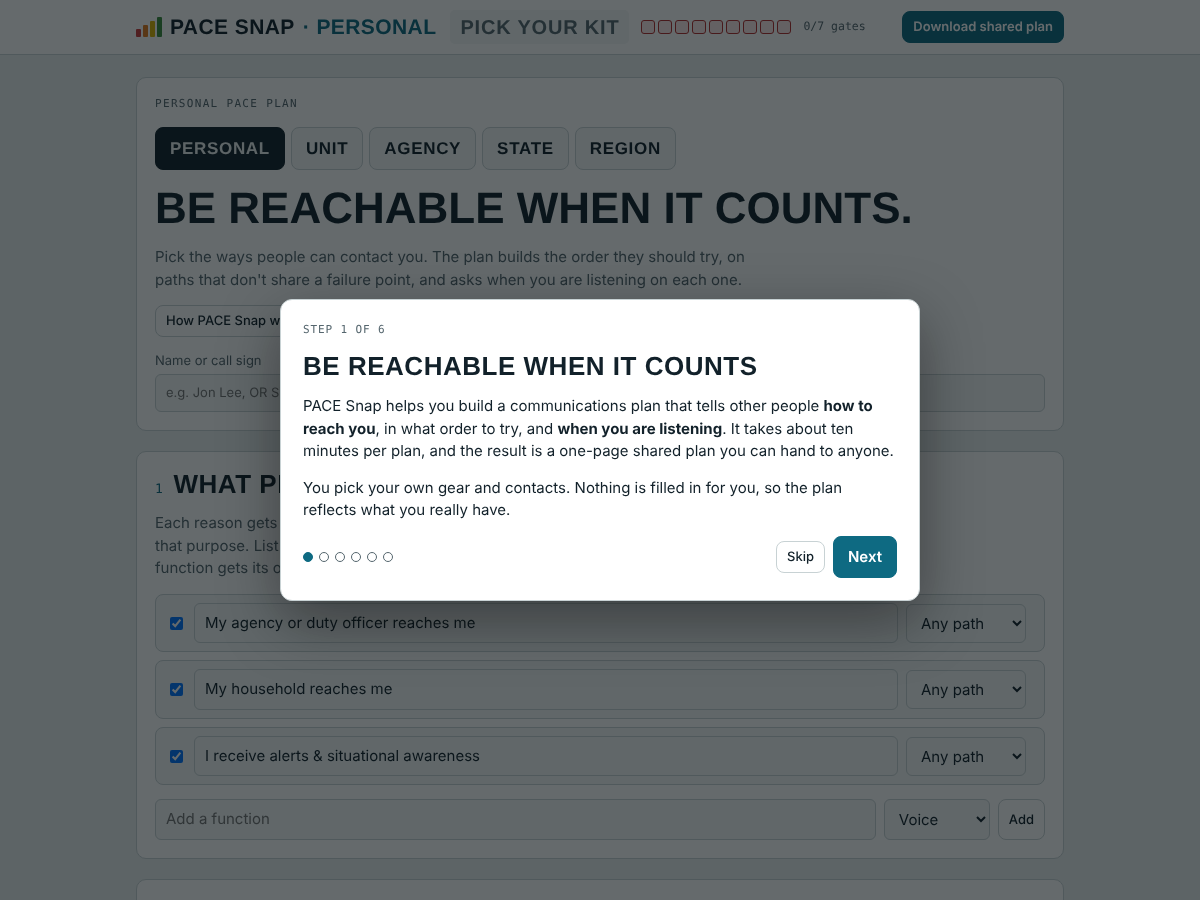
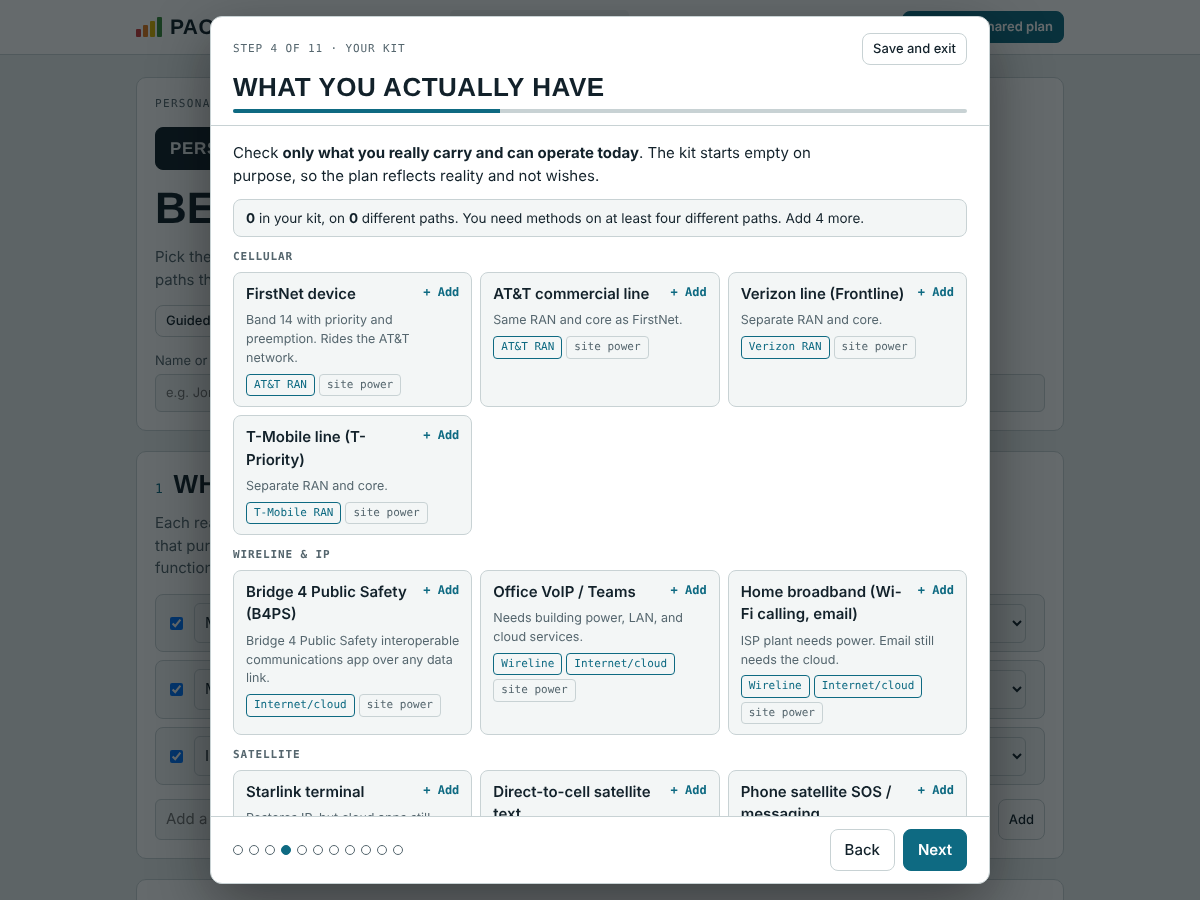
Add guided setup that builds a Personal plan; update README and screenshot
Claude-Session: https://claude.ai/code/session_01Mi91tKSZhi5q3o5ztUVfmX

diff --git a/index.html b/index.html
@@ -202,6 +202,24 @@ textarea{width:100%;min-height:150px;font-family:var(--f-mono);font-size:12px;ba
 .dots{display:flex;gap:6px}
 .dots button{width:10px;height:10px;border-radius:50%;border:1px solid var(--muted);background:transparent;padding:0;cursor:pointer}
 .dots button[aria-current="step"]{background:var(--accent);border-color:var(--accent)}
+.mcard.wz{width:min(780px,100%);max-height:100%;overflow:hidden;padding:0;gap:0}
+.wzh0{padding:16px 22px 12px;border-bottom:1px solid var(--line);display:flex;flex-direction:column;gap:8px}
+.wzp{height:4px;background:var(--line);border-radius:2px;overflow:hidden}.wzp i{display:block;height:100%;background:var(--accent)}
+.wzb{padding:16px 22px;overflow:auto;flex:1;min-height:0;display:flex;flex-direction:column;gap:12px}
+.wzf{padding:12px 22px;border-top:1px solid var(--line);display:flex;gap:10px;align-items:center;justify-content:space-between;flex-wrap:wrap}
+.wztip{border-left:3px solid var(--accent);background:var(--panel-2);padding:8px 12px;border-radius:4px;font-size:13.5px}
+.wzcard{border:1px solid var(--line);border-radius:8px;padding:10px;display:flex;flex-direction:column;gap:8px;background:var(--panel-2);min-width:0}
+.wzcard.sugg{border-style:dashed}
+.wzlist{display:flex;flex-direction:column;gap:6px}
+.wzchk{display:flex;gap:8px;align-items:center;padding:8px 10px;border:1px solid var(--line);border-radius:8px;background:var(--panel-2)}
+.wzmeter{padding:8px 12px;border-radius:8px;background:var(--panel-2);border:1px solid var(--line);font-size:13.5px}.wzmeter.ok{border-color:var(--accent)}
+.wzh{margin:0 0 6px;font-family:var(--f-mono);font-size:11px;letter-spacing:.08em;text-transform:uppercase;color:var(--muted)}
+.wz4{display:grid;grid-template-columns:repeat(auto-fit,minmax(170px,1fr));gap:8px;font-size:13px}.wz4>div{padding:8px;border:1px solid var(--line);border-radius:8px;background:var(--panel-2)}.wz4 b{display:block}
+.wzrate{display:grid;grid-template-columns:minmax(0,1fr) repeat(4,64px);gap:6px;align-items:center;font-size:13px}.wzrate.hd{font-family:var(--f-mono);font-size:10.5px;color:var(--muted);text-transform:uppercase}.wzrate.hd span{text-align:center}
+.wzrate .nm{overflow-wrap:anywhere}
+.wzlad{display:flex;flex-direction:column;gap:8px}
+@media(max-width:520px){.wzrate{grid-template-columns:minmax(0,1fr) repeat(4,50px);gap:4px}.wzrate.hd{font-size:9px}}
+.wzrate select{padding:6px 2px;text-align:center;text-align-last:center}
 .lad{display:grid;gap:6px}
 .lad div{display:flex;gap:10px;align-items:center;padding:8px 10px;border:1px solid var(--line);border-radius:8px;background:var(--panel-2)}
 .lad .lvl{flex:none}
@@ -227,7 +245,7 @@ textarea{width:100%;min-height:150px;font-family:var(--f-mono);font-size:12px;ba
 </div></main>
 <div class="toast" id="toast" role="status"></div>
 <input type="file" id="loadfile" accept=".json,application/json" hidden>
-<div class="modal" id="onb" role="dialog" aria-modal="true" aria-labelledby="onbT" hidden><div class="mcard" id="onbC" tabindex="-1"></div></div>
+<div class="modal" id="onb" role="dialog" aria-modal="true" aria-labelledby="onbT" hidden><div class="mcard wz" id="onbC" tabindex="-1"></div></div>
 
 <script>
 /* ================= data ================= */
@@ -575,7 +593,7 @@ function renderHead(){const t=T();$('tierName').textContent='· '+t.label;
  $('head').innerHTML=`<section class="card"><span class="eyebrow">${t.label} PACE plan</span>
  <div class="tiers" role="tablist" aria-label="Plan tier">${Object.entries(TIERS).map(([k,v])=>`<button type="button" role="tab" data-act="tier" data-id="${k}" aria-selected="${k===TIER}">${v.label}</button>`).join('')}</div>
  <h1>${t.h1}</h1><p class="muted">${t.intro}</p>
- <div class="row" style="gap:8px"><button type="button" class="btn sm" data-act="help">How PACE Snap works</button><button type="button" class="btn sm" data-act="saveFile">Save progress</button><button type="button" class="btn sm" data-act="loadFile">Load progress</button><button type="button" class="btn sm" data-act="allPdf">Download all plans (PDF)</button><button type="button" class="btn sm" data-act="sample">${SAMPLEARM?'Replace my plan? Click again':'Load sample plan'}</button></div>
+ <div class="row" style="gap:8px"><button type="button" class="btn sm" data-act="help">Guided setup</button><button type="button" class="btn sm" data-act="saveFile">Save progress</button><button type="button" class="btn sm" data-act="loadFile">Load progress</button><button type="button" class="btn sm" data-act="allPdf">Download all plans (PDF)</button><button type="button" class="btn sm" data-act="sample">${SAMPLEARM?'Replace my plan? Click again':'Load sample plan'}</button></div>
  ${S.sample?`<div class="flag warn"><b>This is a sample plan</b> with made-up contacts, so you can see what a finished plan looks like. <div class="row" style="gap:8px;margin-top:6px"><button type="button" class="btn sm pri" data-act="clearSample">Clear sample and start my own</button></div></div>`:''}
  <div class="grid2">
   <label class="fld">${t.whoL}<input type="text" id="who" data-bind="who" placeholder="${esc(t.whoP)}" value="${esc(S.who)}"></label>
@@ -854,19 +872,125 @@ async function exportAll(btn){const label=btn&&btn.textContent;if(btn){btn.disab
 /* ================= events ================= */
 /* ================= onboarding, save/load, csv ================= */
 let CSVC=false,ONB=0,SAMPLEARM=false,RESETARM=false;
-const ONB_STEPS=[
- {t:'Be reachable when it counts',b:()=>`<p>PACE Snap helps you build a communications plan that tells other people <b>how to reach you</b>, in what order to try, and <b>when you are listening</b>. It takes about ten minutes per plan, and the result is a one-page shared plan you can hand to anyone.</p><p>You pick your own gear and contacts. Nothing is filled in for you, so the plan reflects what you really have.</p>`},
- {t:'The PACE idea',b:()=>`<p>PACE is a military-derived method. Instead of improvising when something fails, you decide in advance what comes next.</p><div class="lad">${LEVELS.map(l=>`<div><span class="lvl ${l.c}">${l.k}</span><span><b>${l.name}</b>: ${({P:'your everyday method (cell, VoIP, email)',A:'a common backup on a different path (second carrier, SMS)',C:'a strategic fallback (satellite, a different location)',E:'the last resort (HF radio, SHARES, mesh, a runner)'})[l.k]}</span></div>`).join('')}</div>`},
- {t:'The right mindset',b:()=>`<ul><li><b>Plan for losing what you depend on</b>, not for one kind of incident. A good plan is all-hazards.</li><li><b>Each rung needs its own failure path.</b> Two methods on the same tower, power feed, or internet link are one method.</li><li><b>Reachable means monitored.</b> A number nobody is watching is not a contact. Say when you are listening: always, on a schedule, or once the methods above stop working.</li><li><b>Untested is unproven.</b> A plan is ready for testing, not ready to trust, until you have made a real two-way contact on each rung.</li></ul>`},
- {t:'Four checks for every method',b:()=>`<p>Rate each asset honestly on:</p><ul><li><b>Power</b>: how long it runs on battery or generator, and fuel availability.</li><li><b>Availability</b>: is it monitored 24/7 and recently tested?</li><li><b>Compatibility</b>: can the other side actually talk to it (for example ALE for HF)?</li><li><b>Ease of use</b>: can someone use it under stress, in the dark, in bad weather?</li></ul><p class="muted">Readiness also uses the CISA criteria: feasible, acceptable, suitable, distinguishable, complete.</p>`},
- {t:'How PACE Snap works',b:()=>`<ol><li><b>Reasons to reach you.</b> Keep or add the functions people need you for.</li><li><b>Your kit.</b> Check only what you really have. It starts empty.</li><li><b>The plan builds itself.</b> You get a P-A-C-E ladder for each reason, with an explanation for each rung. Change any rung you like.</li><li><b>Contacts and listening.</b> Add contact details and say when you are monitoring each method.</li><li><b>Check the drills and gates.</b> They show where an outage would break your plan.</li><li><b>Share.</b> Download the shared plan PDF, or a CSV to compile plans.</li></ol><p class="muted">Extra carriers and spare methods go under <b>Backup methods</b> so the ladders stay clean.</p>`},
- {t:'Your data and where to start',b:()=>`<p>Want to see a finished plan first? Use <b>Load sample plan</b>. Everything else stays in this browser. Use <b>Save progress</b> to download a file and <b>Load progress</b> to pick up later or on another device. Exports contain contact details, so share them with care.</p><p><b>Which plan are you building?</b></p><div class="pickt">${Object.entries(TIERS).map(([k,v])=>`<button type="button" class="btn ${k===TIER?'pri':''}" data-act="onbTier" data-id="${k}">${v.label}</button>`).join('')}</div>`}];
-function onbRender(){const st=ONB_STEPS[ONB],last=ONB===ONB_STEPS.length-1;
- $('onbC').innerHTML=`<span class="mstep">Step ${ONB+1} of ${ONB_STEPS.length}</span><h2 id="onbT">${st.t}</h2>${st.b()}
- <div class="mfoot"><div class="dots" role="group" aria-label="Steps">${ONB_STEPS.map((_,i)=>`<button type="button" data-act="onbGo" data-i="${i}" aria-label="Step ${i+1}" ${i===ONB?'aria-current="step"':''}></button>`).join('')}</div>
- <div class="row" style="gap:8px">${last?'':'<button type="button" class="btn sm" data-act="onbClose">Skip</button>'}${ONB>0?'<button type="button" class="btn" data-act="onbBack">Back</button>':''}<button type="button" class="btn pri" data-act="${last?'onbClose':'onbNext'}">${last?'Start building':'Next'}</button></div></div>`}
-function onbOpen(){ONB=0;onbRender();$('onb').hidden=false;$('onbC').focus()}
-function onbClose(){$('onb').hidden=true;try{localStorage.setItem('pace-snap-onb','1')}catch(e){}}
+/* ---- guided setup: learn the app by building your Personal PACE plan ---- */
+const WZ=[
+ {n:'You',t:'Let\'s build your Personal PACE plan'},
+ {n:'The idea',t:'The PACE idea'},
+ {n:'Reasons',t:'Why people need to reach you'},
+ {n:'Your kit',t:'What you actually have'},
+ {n:'Four checks',t:'Rate your gear honestly'},
+ {n:'Your ladder',t:'Your PACE ladder'},
+ {n:'Contacts',t:'How others reach you'},
+ {n:'Listening',t:'When you are listening'},
+ {n:'Backups',t:'Backup methods'},
+ {n:'Check',t:'Check your plan'},
+ {n:'Share',t:'Share it and test it'}];
+const wzTip=h=>`<div class="wztip"><b>Mindset.</b> ${h}</div>`;
+const wzUsed=()=>{const m=new Map();activeFns().forEach(f=>view(f.id).rows.forEach(r=>{if(!r.A)return;if(!m.has(r.id))m.set(r.id,{A:r.A,fns:[]});m.get(r.id).fns.push(f)}));return[...m.values()]};
+const wzFirst=(o,u)=>{for(const f of u.fns){const v=o==='c'?contactOf(f.id,u.A.id):((S.tested[f.id]||{})[u.A.id]||'');if(v)return v}return ''};
+function contactHint(A){const p=A.path;
+ if(p.some(x=>['att','vz','tmo','wire'].includes(x)))return 'Phone number, e.g. 503-555-0123';
+ if(p.some(x=>['iridium','msat','starlink','geo'].includes(x)))return 'Satellite number, device name or account';
+ if(p.includes('hf'))return 'Call sign and frequency or ALE address';
+ if(p.includes('mesh'))return 'Node name and channel';
+ if(p.some(x=>['lmr','slmr','issi','simplex','rptr','prptr','manet'].includes(x)))return 'Talkgroup, channel or repeater';
+ if(p.includes('human'))return 'Where to find you, or the rally point';
+ if(p.includes('net')||p.includes('fiber')||p.includes('isp'))return 'Email address or app handle';
+ return 'How a caller reaches you on this'}
+function wzMonBase(f,id){const b={...monEff(f,id)};delete b.confirmed;return b}
+function wzMon(id,patch){activeFns().forEach(f=>{const o=monSet(f.id,id);Object.assign(o,wzMonBase(f.id,id),patch)});save()}
+function wzSync(){render();wzRender()}
+const wzStore=()=>{try{localStorage.setItem('pace-snap-onb-step',String(ONB))}catch(e){}};
+function wzBody(){const T_=T();
+ switch(ONB){
+ case 0:return `<p>In about ten minutes you will learn how PACE Snap works by building <b>your own plan</b>. Each step teaches one idea and asks for one thing. Everything saves as you go, so you can leave and pick up later with <b>Guided setup</b>.</p>
+  <div class="grid2"><label class="fld">Name or call sign<input type="text" data-w="who" value="${esc(S.who)}" placeholder="${esc(T_.whoP)}"></label><label class="fld">Home base / area<input type="text" data-w="base" value="${esc(S.base)}" placeholder="${esc(T_.baseP)}"></label></div>
+  <p class="muted">This appears at the top of the plan you share.</p>
+  <div class="row" style="gap:8px"><button type="button" class="btn sm" data-act="wzSample">Just show me a finished sample plan</button></div>`;
+ case 1:return `<p>PACE is a military-derived method. Instead of improvising when something fails, you decide in advance what comes next.</p>
+  <div class="lad">${LEVELS.map(l=>`<div><span class="lvl ${l.c}">${l.k}</span><span><b>${l.name}</b>: ${({P:'your everyday method (cell, VoIP, email)',A:'a common backup on a different path (a second carrier, SMS)',C:'a strategic fallback (satellite, a different location)',E:'the last resort (HF radio, SHARES, mesh, a runner)'})[l.k]}</span></div>`).join('')}</div>
+  <ul><li><b>Plan for losing what you depend on</b>, not for one kind of incident. A good plan is all-hazards.</li><li><b>Each rung needs its own failure path.</b> Two methods on the same tower, power feed or internet link are really one method.</li><li><b>Reachable means monitored.</b> A number nobody is watching is not a contact.</li><li><b>Untested is unproven.</b> At the end you will have a plan that is ready for testing, not yet trusted.</li></ul>
+  ${wzTip('This tool is about <b>how others reach you</b>. You will list the reasons people need you, the gear you have, and when you are listening on each method.')}`;
+ case 2:{const sug=['My supervisor reaches me','My team reaches me in the field','My neighbors or community reach me'].filter(n=>!S.fns.some(f=>f.name===n));
+  return `<p>Everyone reaches you for different reasons. <b>Each reason gets its own ladder</b>, because the best method for a duty officer is not the best one for your family. Keep what applies, and add your own.</p>
+  <div class="wzlist">${S.fns.map((f,i)=>`<label class="wzchk"><input type="checkbox" data-act="wzFn" data-idx="${i}" ${f.on?'checked':''}><span>${esc(f.name)}</span></label>`).join('')}</div>
+  ${sug.length?`<div class="row" style="gap:6px"><span class="muted">Add:</span>${sug.map(n=>`<button type="button" class="ev" data-act="wzFnAdd" data-n="${esc(n)}">+ ${esc(n)}</button>`).join('')}</div>`:''}
+  <div class="row" style="gap:8px;align-items:flex-end"><label class="fld" style="flex:1 1 240px">Another reason<input type="text" id="w-newfn" placeholder="e.g. My mutual-aid partners reach me"></label><label class="fld">Type<select id="w-newtype">${Object.entries(TYPES_S).map(([k,v])=>`<option value="${k}">${v}</option>`).join('')}</select></label><button type="button" class="btn sm" data-act="wzFnAdd">Add</button></div>
+  ${wzTip('Think of the three people most likely to need you on your worst day. Their reasons are your functions.')}`}
+ case 3:{const groups=[...new Set(allAssets().map(a=>a.g))],inv=invList(),paths=new Set(inv.flatMap(a=>a.path)).size;
+  return `<p>Check <b>only what you really carry and can operate today</b>. The kit starts empty on purpose, so the plan reflects reality and not wishes.</p>
+  <div class="wzmeter ${paths>=4?'ok':''}"><b>${inv.length}</b> in your kit, on <b>${paths}</b> different path${paths===1?'':'s'}. ${paths>=4?'That is enough for a full four-rung ladder.':`You need methods on at least four different paths. Add ${4-paths} more.`}</div>
+  ${groups.map(g=>`<div><h4 class="wzh">${esc(g)}</h4><div class="assets">${allAssets().filter(a=>a.g===g).map(a=>`<button type="button" class="asset" data-act="wzInv" data-id="${a.id}" aria-pressed="${!!S.inv[a.id]}"><span class="nm">${esc(a.name)}<span class="ck">${S.inv[a.id]?'✓ In kit':'+ Add'}</span></span><span class="nt">${esc(a.note)}</span><span class="tags">${pathChips(a)}</span></button>`).join('')}</div></div>`).join('')}
+  <details class="addit"><summary>Something not listed? Add your own</summary><div class="grid2"><label class="fld">Item name<input type="text" id="w-cn" placeholder="e.g. Spare Verizon hotspot"></label><label class="fld">Module<select id="w-cg">${groups.map(g=>`<option>${esc(g)}</option>`).join('')}</select></label><label class="fld">Path it rides<select id="w-cp">${Object.entries(PATHS).map(([k,v])=>`<option value="${k}">${v}</option>`).join('')}</select></label><label class="fld">Mode<input type="text" id="w-cm" placeholder="Voice, text, data"></label><label class="fld">It needs<select id="w-cc"><option value="">Nothing special</option>${Object.entries(CONDS).map(([k,v])=>`<option value="${k}">${v}</option>`).join('')}</select></label></div><div><button type="button" class="btn sm" data-act="wzAddAsset">Add to kit</button></div></details>
+  ${wzTip('Count the <b>paths</b>, not the devices. Three phones on one carrier are still one path.')}`}
+ case 4:{const inv=invList();
+  return `<p>Every method is scored on four checks, 1 (weak) to 3 (strong). The plan builder uses your scores, so be honest. Your worst day is the test.</p>
+  <div class="wz4"><div><b>Power</b> battery or generator, and fuel</div><div><b>Availability</b> monitored 24/7 and recently tested</div><div><b>Compatibility</b> the other side can actually receive it (for example ALE for HF)</div><div><b>Ease</b> usable under stress, in the dark, in bad weather</div></div>
+  ${inv.length?`<div class="wzrate hd"><span></span>${['Power','Avail.','Compat.','Ease'].map(r=>`<span>${r}</span>`).join('')}</div>${inv.map(a=>{const r=effR(a);return `<div class="wzrate"><span class="nm">${esc(a.name)}</span>${r.map((v,k)=>`<select data-w="rate" data-id="${a.id}" data-k="${k}" aria-label="${esc(a.name)} ${RATE[k][0]}">${[1,2,3].map(n=>`<option value="${n}" ${v===n?'selected':''}>${n}</option>`).join('')}</select>`).join('')}</div>`}).join('')}`:'<div class="flag bad">Your kit is empty. Go back and add what you have.</div>'}
+  ${wzTip('A method rated 1 on Availability or Ease is a method that will not be there when you need it. The builder avoids those.')}`}
+ case 5:{const Fs=activeFns();if(!Fs.length)return '<div class="flag bad">No reasons are switched on. Go back to step 3.</div>';
+  const f=curTab(),v=view(f),fo=fnById(f),au=autoOf(f);
+  return `<p>Here is the ladder the builder made from your kit: <b>four methods on four different paths</b>, in the order callers should try them. Change any rung if you know better.</p>
+  <label class="fld">Reason<select data-w="tab">${Fs.map(x=>`<option value="${x.id}" ${x.id===f?'selected':''}>${esc(x.name)}</option>`).join('')}</select></label>
+  <div class="wzlad">${v.rows.map(r=>{const why=r.A?rationale(v.ids,r.i,f):null;return `<div class="wzcard"><div class="row" style="gap:10px"><span class="lvl ${r.l.c}">${r.l.k}</span><b>${r.l.name}</b><select data-w="swap" data-i="${r.i}" style="flex:1;min-width:0" aria-label="${r.l.name} method"><option value="">(empty)</option>${invList().map(a=>`<option value="${a.id}" ${a.id===r.id?'selected':''}>${esc(a.name)}</option>`).join('')}</select></div>
+   ${r.A?`<div class="row" style="gap:4px">${pathChips(r.A)}</div><div class="muted" style="font-size:12.5px">${esc(why[1])} ${esc(why[2])}</div>`:'<div class="muted">Nothing here yet. Add a method on a new path to fill it.</div>'}</div>`}).join('')}</div>
+  ${v.cl.length?`<div class="flag bad">Shared failure point: ${v.cl.map(c=>`${LEVELS[c.i].name} and ${LEVELS[c.j].name} both depend on ${c.sh.join(', ')}`).join('; ')}. One failure takes out both.</div>`:filled(v.ids)===4?'<div class="flag good">Four rungs, four separate paths.</div>':`<div class="flag bad">${gapAdvice(v.ids,fo.type||'any',f)||'Fill every rung.'}</div>`}
+  <div class="row" style="gap:8px">${S.manual[f]?'<button type="button" class="btn sm" data-act="wzAuto">Rebuild this ladder automatically</button>':'<span class="muted">Auto-built from your kit</span>'}</div>
+  ${wzTip('The ladder is only as good as its weakest shared dependency. If two rungs fail together, they are one rung.')}`}
+ case 6:{const U=wzUsed();if(!U.length)return '<div class="flag bad">Your ladders are empty. Go back to build them.</div>';
+  return `<p>Now give people what they will actually use to reach you on each method. You enter each one once, and it applies to every reason that uses it.</p>
+  ${U.map(u=>`<div class="wzcard"><div class="row" style="gap:8px"><b>${esc(u.A.name)}</b>${pathChips(u.A)}</div><label class="fld">How others reach you<input type="text" data-w="contact" data-id="${u.A.id}" value="${esc(wzFirst('c',u))}" placeholder="${esc(contactHint(u.A))}"></label><div class="muted" style="font-size:12.5px">Used for: ${u.fns.map(f=>esc(f.name)).join('; ')}</div></div>`).join('')}
+  ${wzTip('Write it the way a caller would dial it. A contact that needs explaining will fail under stress.')}`}
+ case 7:{const U=wzUsed();if(!U.length)return '<div class="flag bad">Your ladders are empty. Go back to build them.</div>';
+  const un=U.filter(u=>!monEff(u.fns[0].id,u.A.id).confirmed).length;
+  return `<p>A contact only helps if <b>someone is listening</b>. For each method say when you monitor it. Anything not always on needs a start condition that callers can understand.</p>
+  ${un?`<div class="row" style="gap:8px"><button type="button" class="btn sm pri" data-act="wzMonAll">Accept all ${un} suggestion${un===1?'':'s'}</button><span class="muted">Suggested settings are marked. Change any you disagree with.</span></div>`:'<div class="flag good">All monitoring settings confirmed.</div>'}
+  ${U.map(u=>{const f0=u.fns[0].id,m=monEff(f0,u.A.id);return `<div class="wzcard${m.confirmed?'':' sugg'}"><div class="row" style="gap:8px"><b>${esc(u.A.name)}</b>${m.confirmed?'':'<span class="chip">Suggested</span>'}</div>
+   <div class="grid2"><label class="fld">Monitoring<select data-w="monm" data-id="${u.A.id}">${Object.entries(MONLAB).map(([k,v])=>`<option value="${k}" ${m.m===k?'selected':''}>${v}</option>`).join('')}</select></label>
+   ${m.m==='trig'?`<label class="fld">Ready within<input type="text" data-w="rd" data-id="${u.A.id}" value="${esc(m.rd||'')}" placeholder="e.g. 15 minutes"></label>`:''}${m.m==='sched'?`<label class="fld">Schedule<input type="text" data-w="sched" data-id="${u.A.id}" value="${esc(m.sched||'')}" placeholder="e.g. Net 0800 and 1600 daily"></label>`:''}
+   <label class="fld">Last tested (optional)<input type="text" data-w="tested" data-id="${u.A.id}" value="${esc(wzFirst('t',u))}" placeholder="YYYY-MM-DD"></label></div>
+   ${m.m==='trig'?`<div class="evs">${TRIG_EVENTS.map(e=>`<button type="button" class="ev" data-act="wzTrig" data-id="${u.A.id}" data-e="${e.id}" aria-pressed="${(m.t||[]).includes(e.id)}">${e.name}</button>`).join('')}</div>`:''}</div>`}).join('')}
+  ${wzTip('Triggers are conditions, not incidents. "Callers cannot reach the rungs above" works for every hazard.')}`}
+ case 8:{const onL=new Set(wzUsed().map(u=>u.A.id)),used=new Set(S.alts.map(x=>x.id)),pool=invList().filter(a=>!used.has(a.id));
+  return `<p>Anything else that reaches you goes here: a second or third carrier, a spare radio, another email. Backups stay <b>off the ladders</b> so the plan stays clean, and appear as one short list. This step is optional.</p>
+  ${S.alts.map((x,i)=>asset(x.id)&&S.inv[x.id]?`<div class="wzcard"><b>${esc(asset(x.id).name)}</b><div class="grid2"><label class="fld">How others reach you<input type="text" data-w="altc" data-i="${i}" value="${esc(x.contact||'')}" placeholder="${esc(contactHint(asset(x.id)))}"></label><label class="fld">Note<input type="text" data-w="altn" data-i="${i}" value="${esc(x.note||'')}" placeholder="e.g. covers the coast"></label></div><div><button type="button" class="btn sm" data-act="wzAltDel" data-i="${i}">Remove</button></div></div>`:'').join('')}
+  ${pool.length?`<div class="row" style="gap:8px;align-items:flex-end"><label class="fld" style="flex:1 1 220px">Add from your kit<select id="w-altpick"><option value="">Choose a method</option>${pool.map(a=>`<option value="${a.id}">${esc(a.name)}${onL.has(a.id)?' (already on a ladder)':''}</option>`).join('')}</select></label><button type="button" class="btn sm" data-act="wzAltAdd">Add</button></div>`:'<p class="muted">Everything in your kit is already listed.</p>'}
+  ${wzTip('Redundancy is cheap on paper and priceless in practice. Three carriers means three numbers people can try.')}`}
+ case 9:{const G=gates(),Fs=activeFns();const fix={'Complete':6,'Monitored':7,'Distinguishable':5,'Feasible':4,'Survives every drill':3};
+  return `<p>Two checks run on your plan: <b>outage drills</b> (does each ladder keep working when networks, power or sites fail?) and <b>readiness gates</b> (the CISA criteria plus monitoring).</p>
+  <div class="wzcard"><b>Drills</b>${Fs.map(f=>{const ok=SCEN.filter(s=>drillF(f.id,s).ok).length;return `<div class="row" style="gap:8px"><span class="st ${ok===SCEN.length?'ok':'no'}">${ok}/${SCEN.length}</span><span>${esc(f.name)}</span></div>`}).join('')}</div>
+  <div class="wzgates">${G.map(g=>`<div class="gate"><span class="st ${g.ok?'ok':'no'}">${g.ok?'PASS':'OPEN'}</span><div><b>${g.k}</b><small>${g.d}</small>${!g.ok&&g.miss&&!g.att?`<div class="miss">${g.miss}</div>${fix[g.k]?`<button type="button" class="btn sm" data-act="onbGo" data-i="${fix[g.k]}">Fix this</button>`:''}`:''}${g.att?`<label class="row" style="gap:6px;margin-top:4px"><input type="checkbox" data-act="wzAtt" data-k="${g.att}" ${S.attest[g.att]?'checked':''}> I confirm this</label>`:''}</div></div>`).join('')}</div>
+  ${wzTip('Open items are not failures. They are your to-do list before testing.')}`}
+ default:{const G=gates(),ok=G.filter(g=>g.ok).length;
+  return `<p>Your plan: <b>${ok} of ${G.length}</b> readiness checks passing${ok===G.length?'. It is ready for testing.':'. Finish the open items any time from the full app.'}</p>
+  <div class="wzcard"><b>Take it with you</b><div class="row" style="gap:8px"><button type="button" class="btn pri" data-act="pdf">Download shared plan (PDF)</button><button type="button" class="btn" data-act="saveFile">Save progress</button><button type="button" class="btn" data-act="csv">Export CSV</button></div><span class="muted" style="font-size:12.5px">The shared plan is what you give to others. Save progress lets you continue later or on another device.</span></div>
+  <div class="wzcard"><b>Now test it</b><ol><li>Make a real two-way contact on each rung, starting with the lowest.</li><li>Write the date in "Last tested" and repeat on the schedule you set.</li><li>Print a copy and keep it where you can find it without power or network.</li></ol></div>
+  <div class="wzcard"><b>What next?</b><span class="muted" style="font-size:13px">The same flow works for a Unit, Agency, State or Region plan: pick a tier at the top of the full app. Use <b>Guided setup</b> any time to come back here.</span></div>`}}}
+function wzRender(){const st=WZ[ONB],last=ONB===WZ.length-1,card=$('onbC'),old=$('onbB');const top=old?old.scrollTop:0;
+ card.innerHTML=`<div class="wzh0"><div class="row" style="justify-content:space-between;gap:8px"><span class="mstep">Step ${ONB+1} of ${WZ.length} · ${st.n}</span><button type="button" class="btn sm" data-act="onbClose">Save and exit</button></div><h2 id="onbT">${st.t}</h2><div class="wzp" role="progressbar" aria-valuemin="1" aria-valuemax="${WZ.length}" aria-valuenow="${ONB+1}"><i style="width:${(ONB+1)/WZ.length*100}%"></i></div></div>
+ <div class="wzb" id="onbB">${wzBody()}</div>
+ <div class="wzf"><div class="dots" role="group" aria-label="Steps">${WZ.map((x,i)=>`<button type="button" data-act="onbGo" data-i="${i}" aria-label="Step ${i+1}: ${x.n}" ${i===ONB?'aria-current="step"':''}></button>`).join('')}</div>
+ <div class="row" style="gap:8px">${ONB>0?'<button type="button" class="btn" data-act="onbBack">Back</button>':''}<button type="button" class="btn pri" data-act="${last?'onbClose':'onbNext'}">${last?'Finish':'Next'}</button></div></div>`;
+ const nb=$('onbB');if(nb)nb.scrollTop=top}
+function onbOpen(){if(TIER!=='personal'){save();TIER='personal';loadState();render()}
+ let n=0;try{n=+localStorage.getItem('pace-snap-onb-step')||0}catch(e){}ONB=Math.min(Math.max(n,0),WZ.length-1);wzRender();$('onb').hidden=false;$('onbC').focus()}
+function onbClose(){$('onb').hidden=true;wzStore();render();try{localStorage.setItem('pace-snap-onb','1')}catch(e){}}
+function wzGo(i){if(i>ONB){if(ONB===2&&!activeFns().length)return toast('Keep at least one reason switched on');if(ONB===3&&!invList().length)return toast('Add at least one method you have')}
+ ONB=Math.min(Math.max(i,0),WZ.length-1);wzStore();render();wzRender();const b=$('onbB');if(b)b.scrollTop=0;$('onbC').focus()}
+function wzIn(t,w,ev){const id=t.dataset.id;const text=['who','base','contact','rd','sched','tested','altc','altn'].includes(w);if(text!==(ev==='input'))return;
+ const all=()=>activeFns();
+ switch(w){
+ case 'who':case 'base':S[w]=t.value;save();break;
+ case 'contact':all().forEach(f=>{(S.contact[f.id]=S.contact[f.id]||{})[id]=t.value});save();break;
+ case 'rd':wzMon(id,{rd:t.value});break;
+ case 'sched':wzMon(id,{sched:t.value});break;
+ case 'tested':all().forEach(f=>{(S.tested[f.id]=S.tested[f.id]||{})[id]=t.value});save();break;
+ case 'altc':S.alts[+t.dataset.i].contact=t.value;save();break;
+ case 'altn':S.alts[+t.dataset.i].note=t.value;save();break;
+ case 'rate':{const a=asset(id),r=[...effR(a)];r[+t.dataset.k]=+t.value;S.rate[id]=r;wzSync();break}
+ case 'tab':S.tab=t.value;render();wzRender();break;
+ case 'swap':{const f=curTab(),ids=[...ladderIds(f)];ids[+t.dataset.i]=t.value;S.manual[f]=ids;wzSync();break}
+ case 'monm':{const o={m:t.value};const df=monDefault(asset(id));if(t.value==='trig'){const cur=monEff(wzUsed().find(u=>u.A.id===id).fns[0].id,id);o.t=(cur.t&&cur.t.length)?cur.t:[...DEFT];o.rd=cur.rd||'15 minutes'}wzMon(id,o);wzSync();break}}}
 const slug=x=>String(x||'plan').replace(/[^A-Za-z0-9]+/g,'-').replace(/^-|-$/g,'').slice(0,40)||'plan';
 function dl(name,text,type){const u=URL.createObjectURL(new Blob([text],{type}));const a=document.createElement('a');a.href=u;a.download=name;document.body.appendChild(a);a.click();a.remove();setTimeout(()=>URL.revokeObjectURL(u),1500)}
 function cleanPlan(k,p){const old=TIER;TIER=k;let b;try{b=fresh()}finally{TIER=old}const o={};
@@ -915,8 +1039,19 @@ function loadSample(){const t=T();S=fresh();S.sample=true;
 const ACT={
  sample:()=>{const has=invList().length||S.who;if(has&&!SAMPLEARM){SAMPLEARM=true;render();clearTimeout(ACT.h);ACT.h=setTimeout(()=>{SAMPLEARM=false;render()},5000);return}SAMPLEARM=false;loadSample();toast('Sample plan loaded')},
  allPdf:(d,el)=>exportAll(el),
- help:()=>onbOpen(),onbClose:()=>onbClose(),onbNext:()=>{ONB=Math.min(ONB+1,ONB_STEPS.length-1);onbRender();$('onbC').focus()},onbBack:()=>{ONB=Math.max(ONB-1,0);onbRender();$('onbC').focus()},onbGo:d=>{ONB=+d.i;onbRender();$('onbC').focus()},
- onbTier:d=>{if(d.id!==TIER){save();TIER=d.id;loadState();render()}onbRender()},
+ help:()=>onbOpen(),onbClose:()=>onbClose(),onbNext:()=>wzGo(ONB+1),onbBack:()=>wzGo(ONB-1),onbGo:d=>wzGo(+d.i),
+ wzSample:()=>{onbClose();loadSample();toast('Sample plan loaded')},
+ wzFn:d=>{S.fns[+d.idx].on=!S.fns[+d.idx].on;wzSync()},
+ wzFnAdd:d=>{const n=(d.n||($('w-newfn').value||'')).trim();if(!n)return toast('Name the reason first');const id='f'+Date.now();S.fns.push({id,name:n,type:d.n?'any':$('w-newtype').value,on:true,custom:true});wzSync()},
+ wzInv:d=>{S.inv[d.id]=!S.inv[d.id];wzSync()},
+ wzAddAsset:()=>{const n=($('w-cn').value||'').trim();if(!n)return toast('Name the item first');const c=$('w-cc').value,id='x'+Date.now();
+  S.custom.push({id,g:$('w-cg').value,name:n,path:[$('w-cp').value],cond:c?[c]:[],r:[2,2,2,2],bw:3,m:($('w-cm').value||'').trim(),note:'Added by you.'});S.inv[id]=true;wzSync()},
+ wzAuto:()=>{delete S.manual[curTab()];wzSync()},
+ wzMonAll:()=>{wzUsed().forEach(u=>wzMon(u.A.id,{}));wzSync()},
+ wzTrig:d=>{const u=wzUsed().find(x=>x.A.id===d.id);const cur=monEff(u.fns[0].id,d.id);const t=cur.t||[];wzMon(d.id,{m:'trig',t:t.includes(d.e)?t.filter(x=>x!==d.e):[...t,d.e],rd:cur.rd||'15 minutes'});wzSync()},
+ wzAltAdd:()=>{const v=$('w-altpick').value;if(!v)return toast('Choose a method first');S.alts.push({id:v,contact:'',note:''});wzSync()},
+ wzAltDel:d=>{S.alts.splice(+d.i,1);wzSync()},
+ wzAtt:d=>{S.attest[d.k]=!S.attest[d.k];save();wzSync()},
  saveFile:()=>saveFile(),loadFile:()=>{$('loadfile').value='';$('loadfile').click()},
  csv:()=>{dl(`PACE-Snap-${slug(T().label)}-${slug(S.who)}-${new Date().toISOString().slice(0,10)}.csv`,buildCSV(CSVC),'text/csv;charset=utf-8');toast(CSVC?'CSV exported with contact details':'CSV exported without contact details')},
  csvc:(d,el)=>{CSVC=el.checked},
@@ -955,8 +1090,10 @@ const CHG={
 document.addEventListener('click',e=>{const a=e.target.closest('[data-act]');if(a&&ACT[a.dataset.act]){if(a.type!=='checkbox')e.preventDefault();ACT[a.dataset.act](a.dataset,a)}});
 document.addEventListener('input',e=>{const t=e.target,b=t.dataset.bind;if(!b)return;const k=b.split('.');let o=S;for(let i=0;i<k.length-1;i++){o[k[i]]=o[k[i]]||{};o=o[k[i]]}o[k[k.length-1]]=t.value;save();light()});
 document.addEventListener('change',e=>{const t=e.target;if(t.dataset.chg)CHG[t.dataset.chg](t);else if(t.dataset.rer)render()});
-document.addEventListener('keydown',e=>{if($('onb').hidden)return;if(e.key==='Escape')onbClose();else if(e.key==='Tab'){const f=[...$('onbC').querySelectorAll('button')];if(!f.length)return;const i=f.indexOf(document.activeElement);if(e.shiftKey&&i<=0){e.preventDefault();f[f.length-1].focus()}else if(!e.shiftKey&&(i===f.length-1)){e.preventDefault();f[0].focus()}}});
+document.addEventListener('keydown',e=>{if($('onb').hidden)return;if(e.key==='Escape')onbClose();else if(e.key==='Tab'){const f=[...$('onbC').querySelectorAll('button,input,select')];if(!f.length)return;const i=f.indexOf(document.activeElement);if(e.shiftKey&&i<=0){e.preventDefault();f[f.length-1].focus()}else if(!e.shiftKey&&(i===f.length-1)){e.preventDefault();f[0].focus()}}});
 $('onb').addEventListener('click',e=>{if(e.target===$('onb'))onbClose()});
+$('onbC').addEventListener('input',e=>{const t=e.target;if(t.dataset&&t.dataset.w)wzIn(t,t.dataset.w,'input')});
+$('onbC').addEventListener('change',e=>{const t=e.target;if(t.dataset&&t.dataset.w)wzIn(t,t.dataset.w,'change')});
 $('loadfile').addEventListener('change',e=>{const f=e.target.files&&e.target.files[0];if(!f)return;if(f.size>5e6)return toast('That file is too large');const r=new FileReader();r.onload=()=>loadFromText(String(r.result));r.onerror=()=>toast('Could not read that file');r.readAsText(f)});
 loadState();render();
 let seen=false;try{seen=!!localStorage.getItem('pace-snap-onb')}catch(e){}if(!seen)onbOpen();

diff --git a/README.md b/README.md
@@ -20,6 +20,10 @@ PACE (Primary, Alternate, Contingency, Emergency) is a method for deciding in ad
 
 The shared plan is about **inbound contact**: how counties, partners, responders and leadership get hold of you, and whether anyone is actually monitoring each method when they try.
 
+## Guided setup
+
+First-time visitors get an 11-step guided setup that teaches the method while building their own **Personal PACE plan**: the PACE idea, reasons people need to reach you, your kit, rating your gear on the four checks, your ladder, contacts, when you are listening, backup methods, a readiness check, and sharing. Answers save as you go, and **Guided setup** resumes where you left off.
+
 ## How it works
 
 1. **Reasons to reach you.** Keep or edit the functions people need you for. Each gets its own ladder.
@@ -40,7 +44,7 @@ Extra carriers and spare methods go under **Backup methods**, so the ladders sta
 - Shared plan PDF (single plan or every plan in one file) and a separate planning report
 - CSV export for compiling plans across organizations. Contact details are left out unless you tick the box.
 - Save progress to a file and load it later, or on another device
-- Guided onboarding on first visit, and a **Load sample plan** button to see a finished plan
+- Guided setup that builds your Personal plan as you learn the tool, and a **Load sample plan** button to see a finished plan
 - Light and dark themes, works on a phone, no tracking
 
 ## Privacy
